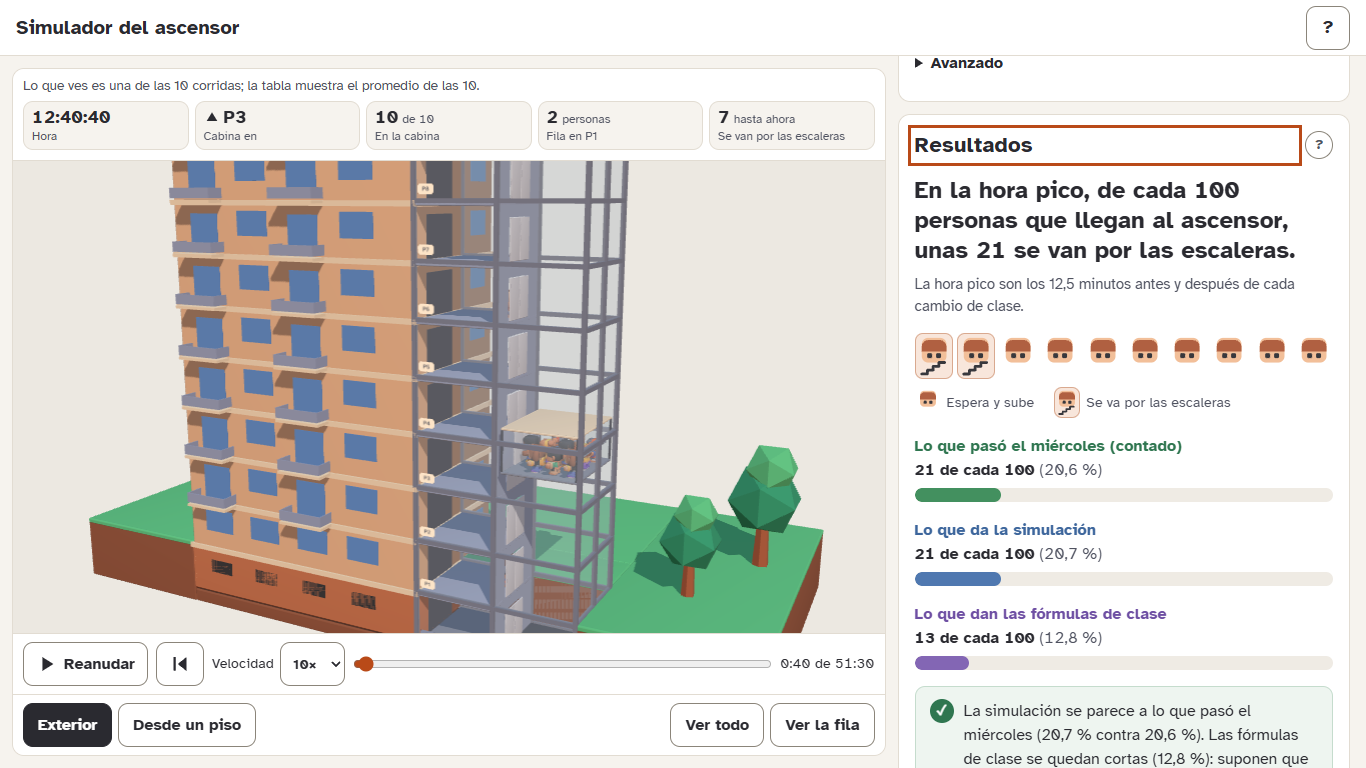
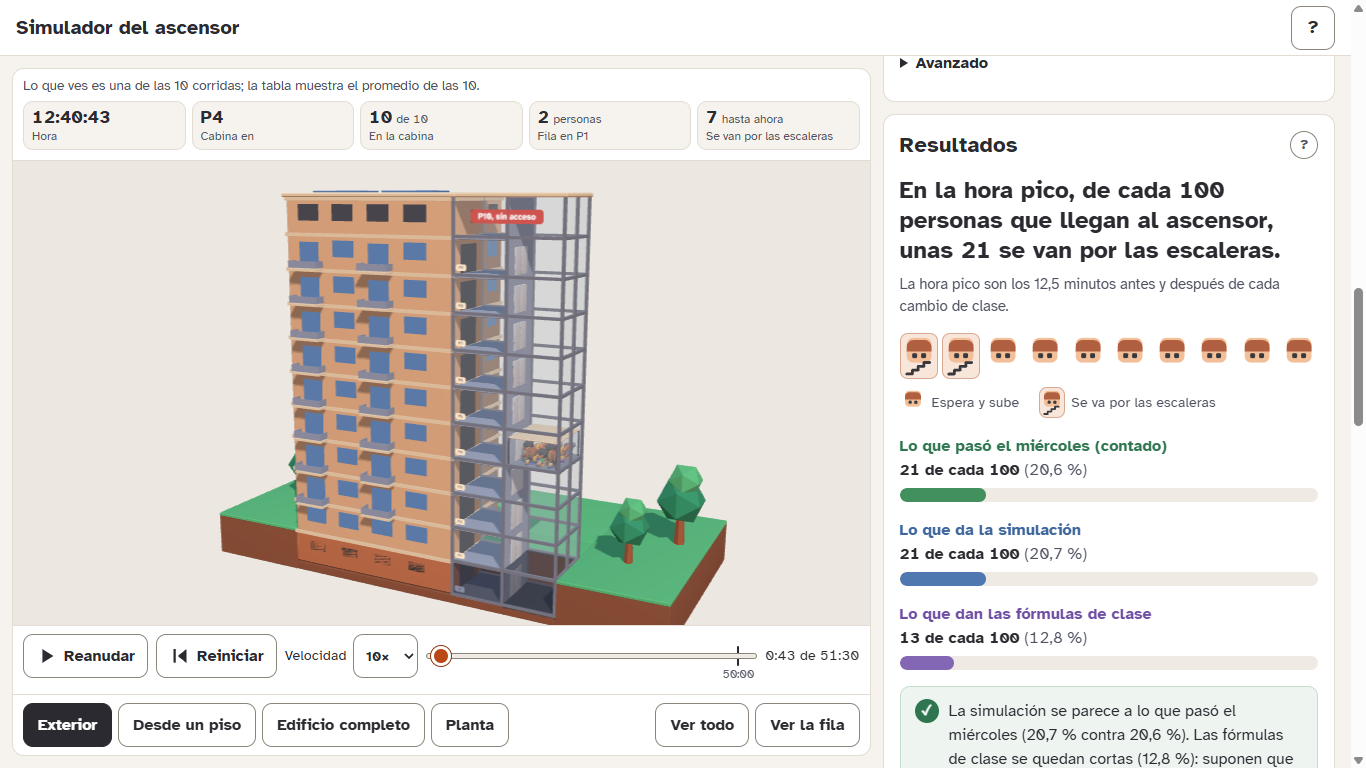
README: rendimiento medido, docente, periodo y licencia; captura de resultados con la interfaz actual; sin tabla de grupos

diff --git a/README.md b/README.md
@@ -391,25 +391,7 @@ Con las reglas del documento tal cual, el abandono en los picos daba cerca de **
 - Quienes bajan se reparten en los 12,5 minutos posteriores a cada cambio de clase de la franja.
 - El aseo pide el ascensor repartido parejo en la franja y lo usa con la cabina vacía y sin llamadas; 150 s desde que abre en P1.
 - Después de terminar la franja la simulación sigue (hasta 1 hora) hasta atender a todos, pero las medidas de fila solo cuentan dentro de la franja.
-- **A. Grupos que suben al mismo piso (apagado).** En el edificio, quienes suben juntos suelen ir al mismo piso (1,6 pisos distintos por vuelta en los datos) y llegan juntos (el lunes, 7 personas a la vez). El documento ya lo menciona como limitación y **la simulación no lo activa**: cada persona llega y elige destino por separado. La opción existe en el código, apagada, y no se usa en los resultados.
-
-<details>
-<summary><strong>¿Qué pasaría con grupos? (exploración, no es un dato medido)</strong></summary>
-
-Para ver cuánto pesa esa limitación se corrió la simulación con grupos de varios tamaños (10 corridas, semillas 1 a 10, caso del miércoles). Esto **no está en la app**:
-
-| Tamaño medio del grupo | Se van por las escaleras en picos | μ (personas/min) | Fila promedio en picos | Vuelta saturada |
-|---|---|---|---|---|
-| 1 (lo que usa la app) | 20,7 % ± 2,4 | 3,38 ± 0,47 | 4,4 ± 0,5 | 165 s |
-| 3 | 18,2 % ± 2,2 | 3,97 ± 0,37 | 3,6 ± 0,5 | 152 s |
-| 5 | 20,9 % ± 2,2 | 4,10 ± 0,38 | 3,5 ± 0,5 | 145 s |
-| 7 | 25,3 % ± 2,3 | 3,88 ± 0,69 | 3,4 ± 0,8 | 160 s |
-
-Con grupos de 3 a 5, la vuelta y μ se acercan a las medidas (153 s y 3,9 por minuto). Es probable que los grupos expliquen por qué la vuelta simulada es más larga que la real.
-
-*Fuente: `npm run tabla -- 10`, sección «Sensibilidad a grupos».*
-
-</details>
+- **A. Grupos que suben al mismo piso (apagado).** En el edificio, quienes suben juntos suelen ir al mismo piso (1,6 pisos distintos por vuelta en los datos) y llegan juntos (el lunes, 7 personas a la vez). El documento ya lo menciona como limitación y **la simulación no lo activa**: cada persona llega y elige destino por separado.
 
 ---
 
@@ -419,7 +401,7 @@ Con grupos de 3 a 5, la vuelta y μ se acercan a las medidas (153 s y 3,9 por mi
 > **La validación es de un solo día de pico (el miércoles).** Es una guía, no una prueba definitiva.
 
 - **Solo se simulan tres flujos:** las personas que llegan a P1 para subir, las que bajan después de un cambio de clase y los usos del aseo, porque son los que se contaron en el estudio. Los **viajes entre pisos altos** y las personas que **se cansan de esperar y se van por las escaleras desde un piso alto** no se observaron, así que no se incluyen ni se inventan.
-- **Las personas llegan de una en una.** En el edificio suelen llegar en grupos que van al mismo piso; eso probablemente alarga la vuelta simulada (unos 165 s contra 153 s medidos).
+- **Las llegadas en grupo no se modelan**, y eso probablemente alarga la vuelta simulada.
 - **La forma de las vueltas no coincide una a una con la real.** La simulación satura más V1 y V2 (en promedio 6,9 y 9,2 rechazos contra 4 y 5 reales) y deja V4 casi vacía (0 contra 2). El total coincide, la secuencia no. La fila máxima simulada también es mayor (19,8 contra 16).
 - **μ medida y μ del documento.** La tabla usa la μ que mide la simulación, no los 3,9 del documento (ver [El modelo de clase](#el-modelo-de-clase-mm1k)).
 - **Los tiempos de los pisos altos no se usan como dato:** las horas anotadas se redondearon a 5 s. Las demoras sin paradas anotadas (de P6 a P8 hasta P1, de 105 a 155 s) se tratan como demoras no observadas.
@@ -643,7 +625,18 @@ La escena arma la traza en un índice una sola vez y, para cualquier segundo, ca
 
 La escena se carga **después** del formulario (`React.lazy`), así que el formulario no espera a three.js.
 
-**Cuadros por segundo en el navegador:** [PENDIENTE: valor medido en el navegador real, que no quedó anotado en el plan]. La prueba en un celular real (simular, las cuatro vistas, «Ver resultados», girar la pantalla) salió bien y la escena iba fluida.
+**Medido en el navegador** (Chrome con una GPU NVIDIA RTX 5050 y una pantalla de 144 Hz; versión de producción, con la corrida del miércoles a 10×):
+
+| Medida | Resultado |
+|---|---|
+| Cuadros por segundo | Unos 140 en las cuatro vistas, a 1366×768, 1920×1080 y 390×844 (cerca del tope de la pantalla de 144 Hz) |
+| Cuadro del percentil 95 | 10,1 ms o menos |
+| Primer dibujo 3D | De 0,7 a 1,2 s |
+| Modelos cargados | De 1,4 a 1,7 s |
+| Carga de la página | 22 peticiones y 1,07 MB, todas locales |
+| **Sin tarjeta gráfica** (el navegador dibuja por software) | De 15 a 27 cuadros por segundo, con la calidad adaptable activada |
+
+El tamaño de 390×844 fue **emulado** en el navegador del computador. Además, la app se probó en un **celular real** (simular, las cuatro vistas, «Ver resultados» y girar la pantalla) y salió bien.
 
 </details>
 
@@ -716,7 +709,7 @@ const NOMBRE_REPO = 'simulador-ascensor';
 - **Datos:** «Datos del ascensor y plan de simulación» (documento de la profesora) y los datos recolectados en el edificio.
 - **Hecho con** React, React Three Fiber, Drei, three.js, Zustand, Vite y Vitest.
 - **Sin peticiones externas:** al abrir la página, las fuentes y los modelos se sirven desde la propia página; no se pide nada a otros sitios.
-- **Licencia del código del proyecto:** [PENDIENTE: licencia del código, porque el repositorio todavía no tiene un archivo de licencia].
+- **Licencia del código del proyecto:** sin licencia de uso: © 2026 Diego Triana, **todos los derechos reservados**. El código se puede ver, pero no reutilizar sin permiso. Los modelos y la letra conservan las licencias de arriba.
 
 ---
 
@@ -724,7 +717,7 @@ const NOMBRE_REPO = 'simulador-ascensor';
 
 **Autor:** Diego Triana ([@DiegiTriana](https://github.com/DiegiTriana)).
 
-Proyecto de la asignatura **Modelos Matemáticos**, Universidad **UDES**.
+Proyecto de la asignatura **Modelos Matemáticos** (código 13804), Universidad **UDES**.
 
-- Docente: [PENDIENTE: nombre de la docente].
-- Periodo académico: [PENDIENTE: semestre y año].
+- Docente: Lorencita Rodriguez Galezo.
+- Periodo académico: 2026-B.
